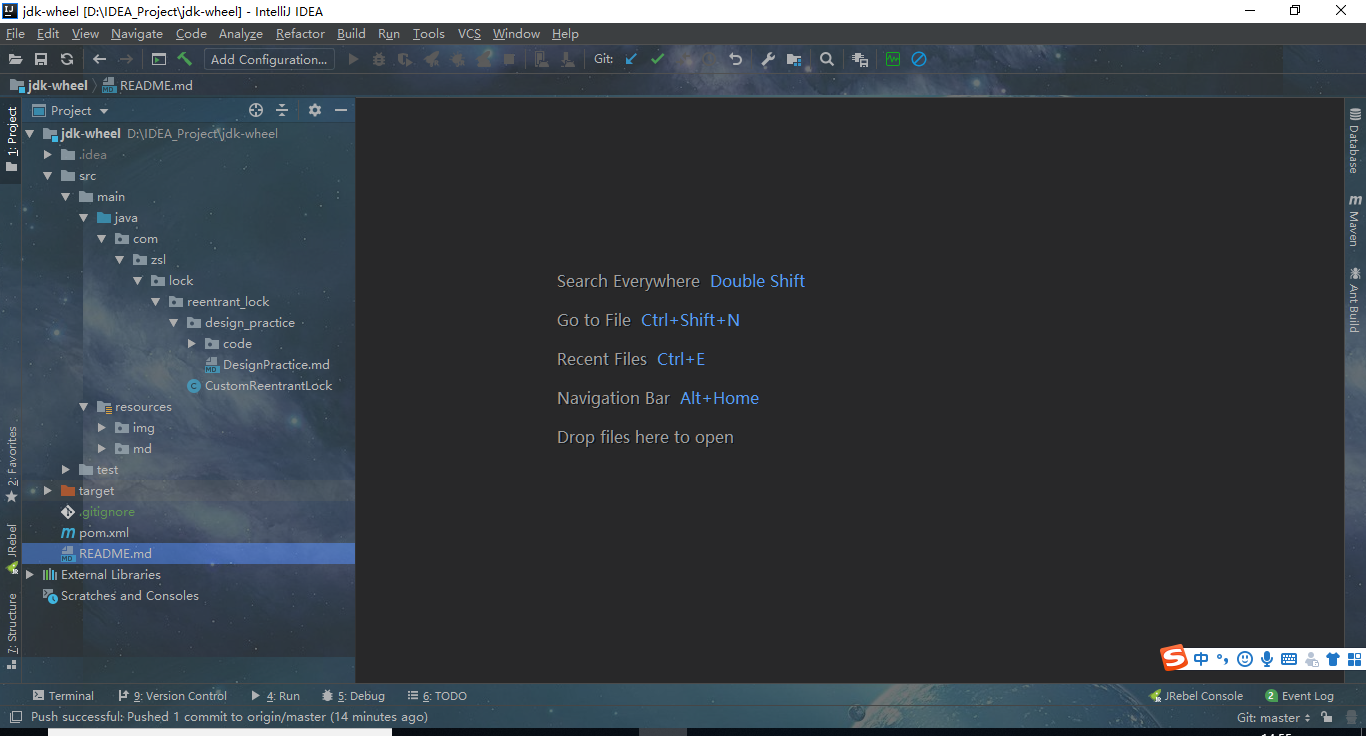
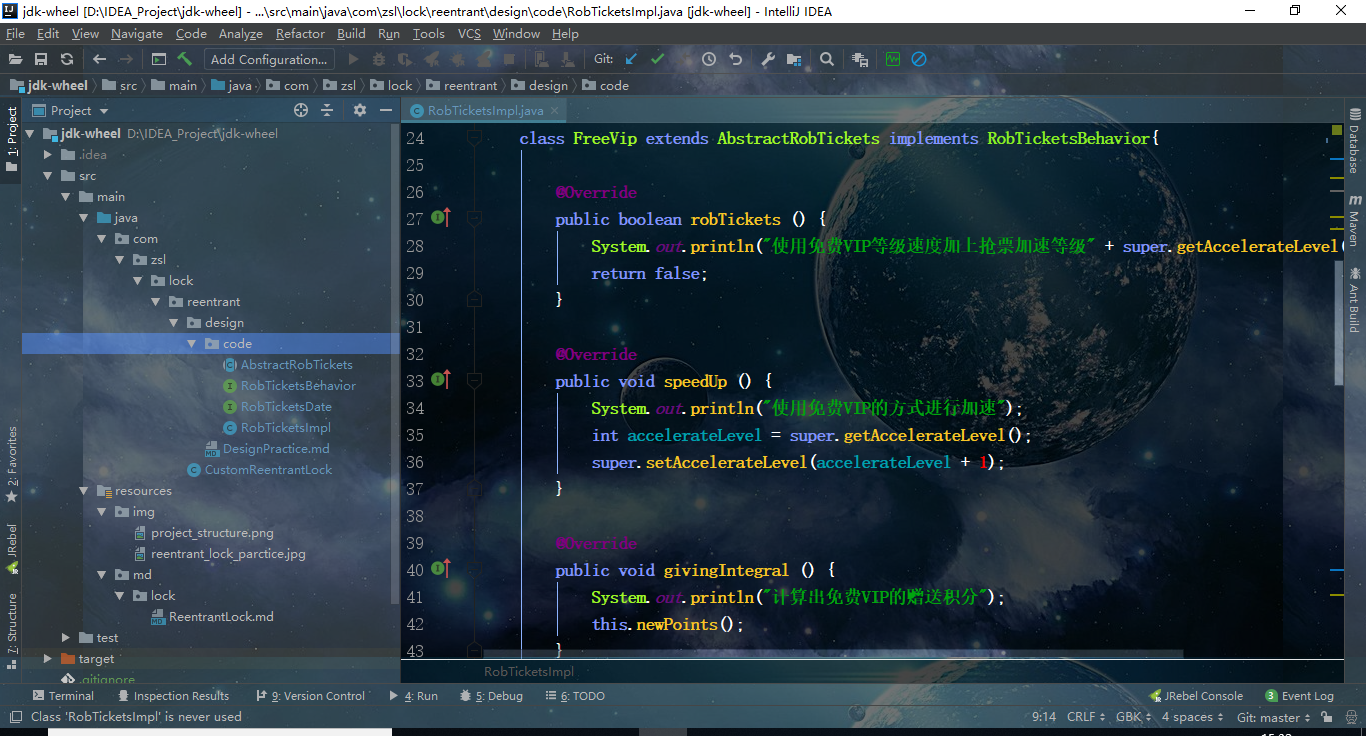
修改包结构 修改README.md文件

diff --git a/src/main/java/com/zsl/lock/reentrant/design/code/AbstractRobTickets.java b/src/main/java/com/zsl/lock/reentrant/design/code/AbstractRobTickets.java
@@ -1,4 +1,4 @@
-package com.zsl.lock.reentrant_lock.design_practice.code;
+package com.zsl.lock.reentrant.design.code;
 
 import lombok.Getter;
 import lombok.Setter;

diff --git a/src/main/java/com/zsl/lock/reentrant/CustomReentrantLock.java b/src/main/java/com/zsl/lock/reentrant/CustomReentrantLock.java
@@ -1,4 +1,4 @@
-package com.zsl.lock.reentrant_lock;
+package com.zsl.lock.reentrant;
 
 import java.io.Serializable;
 import java.util.concurrent.TimeUnit;
